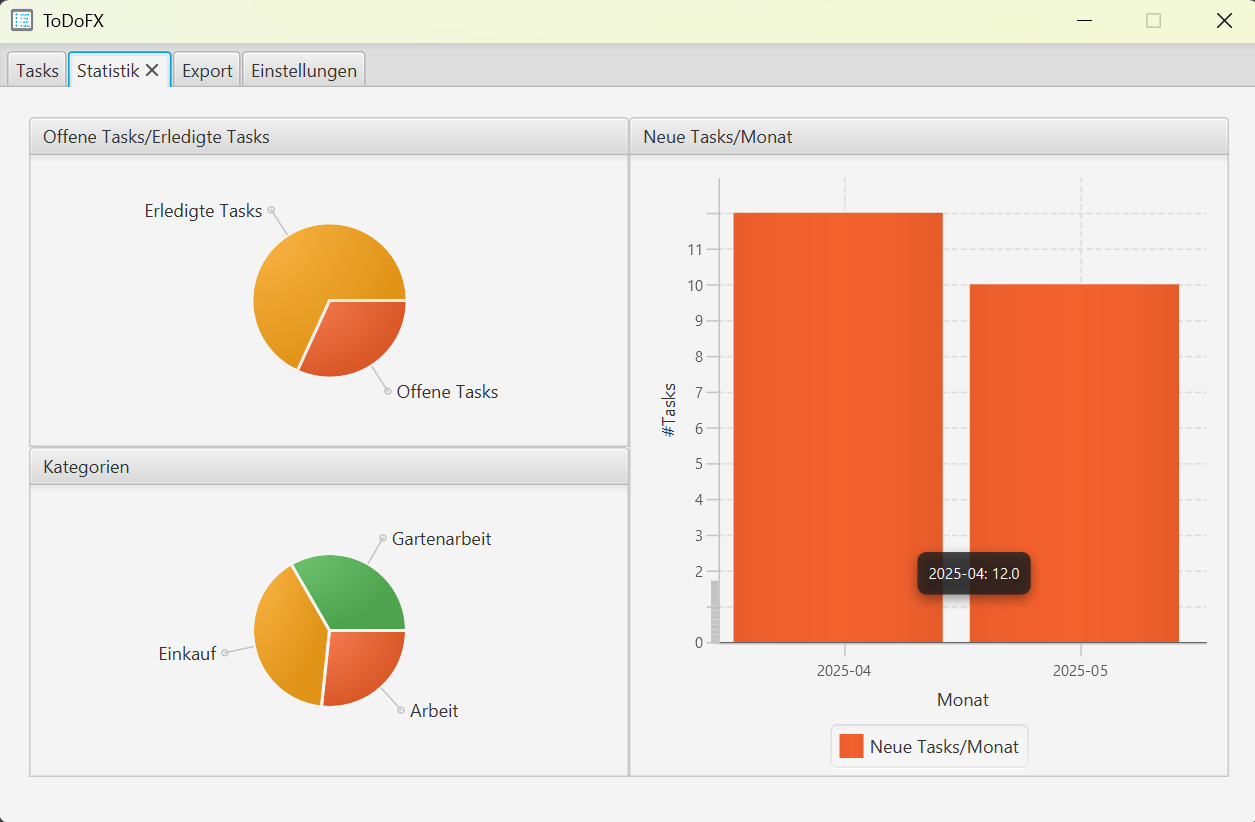
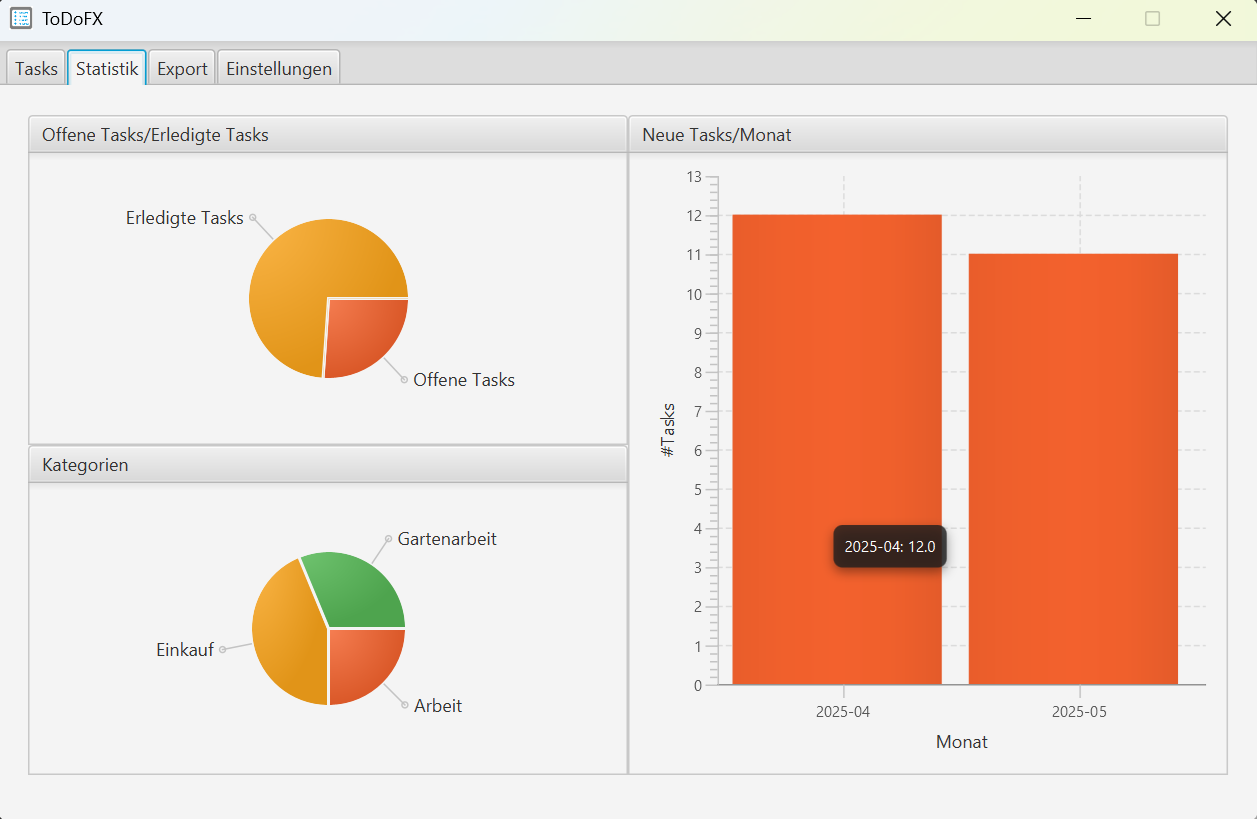
fixed bar chart not being rendered correctly; added a clear button on category settings tab

diff --git a/src/main/kotlin/com/github/ursteiner/todofx/controller/StatisticTabController.kt b/src/main/kotlin/com/github/ursteiner/todofx/controller/StatisticTabController.kt
@@ -37,17 +37,19 @@ class StatisticTabController: CommonController() {
     @FXML
     private lateinit var xAxis: CategoryAxis
 
-    private val TASKS_LAST_X_MONTH = 12
+    private val numberOfPreviousMonths = 12
 
     override fun initialize(p0: URL?, p1: ResourceBundle?) {
         openResolvedTitledPane.text = "${getTranslation(TranslationKeys.OPEN_TASKS)}/${getTranslation(TranslationKeys.RESOLVED_TASKS)}"
         tasksPerCategoryTitledPane.text = getTranslation(TranslationKeys.CATEGORIES)
-
         tasksPerMonthTitledPane.text = getTranslation(TranslationKeys.TASKS_PER_MONTH)
+
+        //Axis animation is disabled as workaround due to incorrect axis labeling
         xAxis.label = getTranslation(TranslationKeys.MONTH)
-        //workaround for bad label positioning
         xAxis.animated = false
-        yAxis.label = "#Tasks"
+
+        yAxis.label = "#${getTranslation(TranslationKeys.TASKS)}"
+        yAxis.animated = false
     }
 
     fun buildPieChartResolvedOpen(){
@@ -82,11 +84,11 @@ class StatisticTabController: CommonController() {
         val series = Series<String?, Int?>()
         series.name = getTranslation(TranslationKeys.TASKS_PER_MONTH)
 
-        getTaskDatabase().getTasksPerMonth(TASKS_LAST_X_MONTH).forEach {
+        getTaskDatabase().getTasksPerMonth(numberOfPreviousMonths).forEach {
             series.data.add(XYChart.Data<String?, Int?>(it.key, it.value))
         }
 
-        barChartTasksPerMonth.data.addAll(series)
+        barChartTasksPerMonth.data.add(series)
 
         series.data.forEach {
             FxUtils.addToolTipToNode(it.node, "${it.xValue}: ${it.yValue}")

diff --git a/src/main/kotlin/com/github/ursteiner/todofx/controller/SettingsTabController.kt b/src/main/kotlin/com/github/ursteiner/todofx/controller/SettingsTabController.kt
@@ -62,7 +62,7 @@ class SettingsTabController: CommonController() {
 
         if(categories.any { it.name == categoryTextField.text }){
             FxUtils.createMessageDialog(getTranslation(TranslationKeys.DUPLICATE_CATEGORY),
-                getTranslation(TranslationKeys.CATEGORY_IS_ALREADY_AVAILABLE))
+                "${getTranslation(TranslationKeys.CATEGORY_IS_ALREADY_AVAILABLE)}: ${categoryTextField.text}")
             return
         }
 
@@ -87,6 +87,8 @@ class SettingsTabController: CommonController() {
     fun onUpdateCategoryButtonClick(){
         val selectedCategory = categoriesListView.selectionModel.selectedItem
         if(categoryTextField.text == "" || selectedCategory == null){
+            FxUtils.createMessageDialog(getTranslation(TranslationKeys.CATEGORIES),
+                getTranslation(TranslationKeys.PLEASE_FIRST_SELECT_A_CATEGORY))
             return
         }
 
@@ -117,6 +119,12 @@ class SettingsTabController: CommonController() {
                 "${getTranslation(TranslationKeys.CATEGORY_MIGHT_STILL_BE_IN_USE)}\n\n${ex.message}",
                 Alert.AlertType.WARNING)
         }
+    }
+
+    @FXML
+    fun onClearSelectedCategoryButtonClick(){
+        categoryTextField.text = ""
+        categoriesListView.selectionModel.select(null)
     }
 
     fun initCategories(){

diff --git a/src/main/kotlin/com/github/ursteiner/todofx/database/CategoryDatabaseServiceImpl.kt b/src/main/kotlin/com/github/ursteiner/todofx/database/CategoryDatabaseServiceImpl.kt
@@ -1,11 +1,6 @@
 package com.github.ursteiner.todofx.database
 
-import com.github.ursteiner.todofx.database.Tasks.categoryId
-import com.github.ursteiner.todofx.database.Tasks.isDone
-import com.github.ursteiner.todofx.database.Tasks.name
-import com.github.ursteiner.todofx.database.Tasks.resolvedDate
 import com.github.ursteiner.todofx.model.Category
-import com.github.ursteiner.todofx.model.Task
 import org.jetbrains.exposed.v1.core.SortOrder
 import org.jetbrains.exposed.v1.jdbc.Database
 import org.jetbrains.exposed.v1.jdbc.SchemaUtils

diff --git a/src/main/kotlin/com/github/ursteiner/todofx/controller/TasksTabController.kt b/src/main/kotlin/com/github/ursteiner/todofx/controller/TasksTabController.kt
@@ -239,10 +239,8 @@ class TasksTabController : CommonController() {
     @FXML
     private fun onTaskSelected() {
         val selectedTask = tableView.selectionModel.selectedItem
-        if (selectedTask == null) {
-            return
-        }
-        
+        selectedTask ?: return
+
         taskUpdateArea.text = selectedTask.getNameProperty()
 
         when (selectedTask.getCategoryProperty()) {
